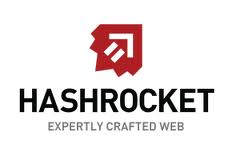
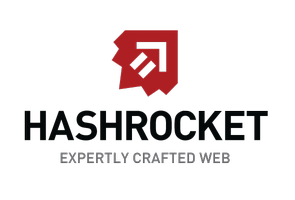
update image

diff --git a/index.html b/index.html
@@ -90,8 +90,8 @@
 
 <div style="margin: 40px 0;">
 <h3>Thanks to our Sponsors & Supporters:</h3>
-<center><a href="http://hashrocket.com" target="blank"><img src="images/hashrocket.jpg
-" width="300px"/></a></center>
+<center><a href="http://hashrocket.com" target="blank"><img src="images/hashrocket.png
+"/></a></center>
 <center>
   <a href="http://stickermule.com" target="blank"><img src="images/sticker-mule.png
 " height="75px" padding="10px"/></a>
